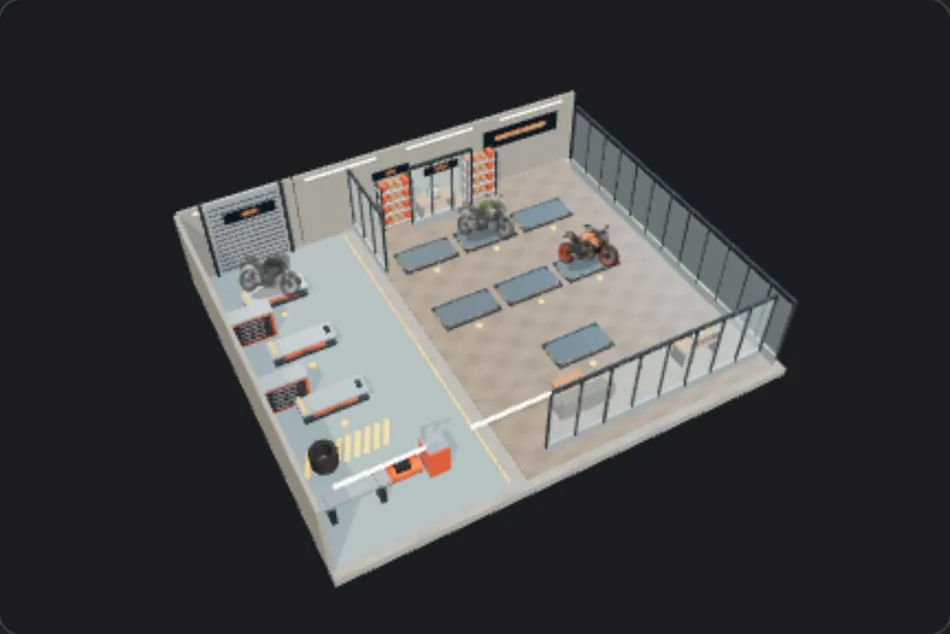
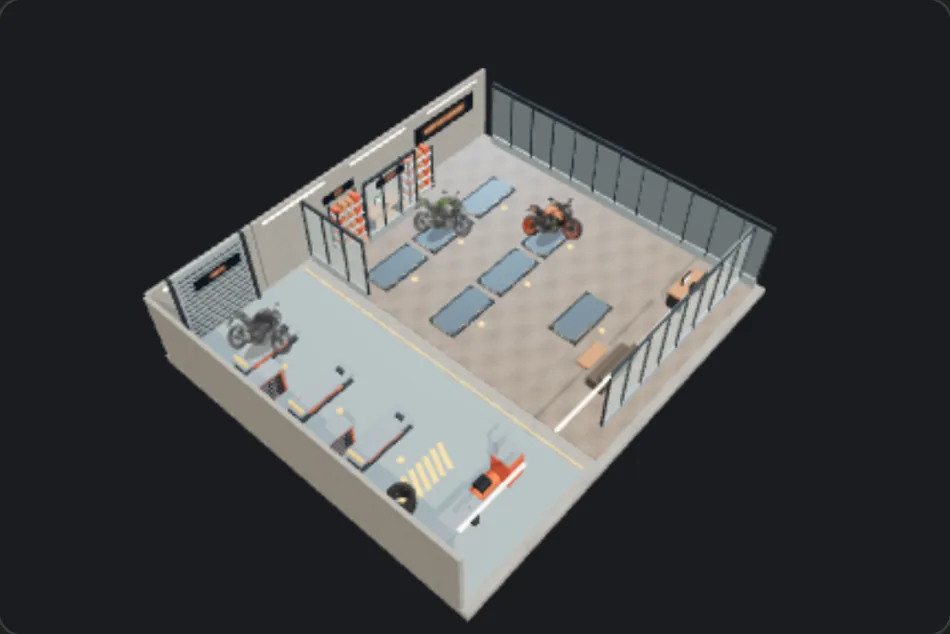
Document v0.17 requirements audit, asset rights and validation

Changed region(s): [[0.1526, 0.0899, 0.8547, 0.989]]

diff --git a/docs/v017-audit.md b/docs/v017-audit.md
@@ -1,0 +1,49 @@
+# v0.17 gereksinim denetimi · PR #33
+
+Bu tablo ilk v0.17 isteğini, v0.16.1 tabanını ve PR #33 kaynaklarını karşılaştırır. **Tamam** uygulanan ve ilgili kanıtı olan, **Kısmi** altyapısı veya görsel prototipi olan, **Açık** teslim edilmemiş işi gösterir.
+
+| İlk istek | Durum | Kanıt ve kalan iş |
+| --- | --- | --- |
+| 1 · Beş proje belgesini ve v0.16.1 kaynaklarını incele | Tamam | Taban PR #32, ilk grafik commit'i `21a4646`. 3D renderer dışındaki oyun kuralları değişmedi. |
+| 1 · Önceki 151 testi, mevcut 160 testi ve mekanikleri koru | Tamam | Önceki testler korunur. Aşağıdaki test tablosu yeni çalıştırmaları listeler. |
+| 2 · Modüler Three.js ve WebGL render | Tamam | `graphics/controller.mjs`, `renderer.mjs`, `assets.mjs`, `garage.mjs`, `config.mjs`, bağımsız eşleştirme ve yerel r180. Ekonomi grafik modüllerini içe aktarmaz. |
+| 2 · GLB/glTF | Tamam | Self-contained GLB platformu ve ayrı KHR_texture_basisu fixture'ı tarayıcıda yüklenir. glTF Loader standardı destekler. Harici URI içeren bir proje varlığı ayrıca denenmedi. |
+| 2 · PBR, metal, cam, yansımalar, HDR ışık, gölgeler, kenar yumuşatma | Kısmi | Metal/roughness PBR, yarı saydam cam, yerel yüksek dinamik aralıklı RoomEnvironment/PMREM, PCF gölgeler ve isteğe bağlı context MSAA çalışır. Cam refraction, düzlemsel yansıma ve çekilmiş HDRI yok. |
+| 2 · LOD, KTX2, model/doku önbelleği ve temizleme | Kısmi | UASTC + altı mip seviyesi iki tarayıcıda render edildi. Son referansta doku ve geometri sayaçları sıfırlanıyor. LOD0 ve mesafede özgün 2D kart yolu hazır. Onaylı motosiklet mesh'iyle geçiş, orta mesh LOD ve gerçek cihaz GPU baytları açık. |
+| 2 · WebGL context kaybı | Tamam | WebGL 2 kapalı başlatma, `WEBGL_lose_context` ile 2D'ye geçiş ve yeni canvas ile toparlanma senaryoları var. |
+| 3 · MT-25 2024 siyah, Z900 2025 yeşil/siyah, KTM 1390 2024 turuncu/siyah | Açık | Üç kesin varyant için birlikte doğrulanmış görsel doğruluk ve lisans yok. Bağımsız kayıt boş. Özgün 2D geri dönüşü garajda ve ayrıntıda etiketli. |
+| 3 · Motor bloğu, şasi, radyatör, egzoz, iki süspansiyon, disk/kaliper, jant/lastik, zincir/dişli, depo, far/stop, gidon/ayna, sele, gerçek oran ve PBR malzemeler | Açık | Üç motosikletin 3D dosyası bulunmadığından hiçbir parça 3D teslim olarak sayılmıyor. |
+| 3 · Ücretsiz/ücretli kaynak, fiyat, ticari kullanım, değişiklik ve yeniden dağıtım doğrulaması | Kısmi | Araştırma ve adayların açık kaynak sınırları kaydedildi. Marka hakları ile birlikte güvenli alım/dağıtım sağlayan aday veya özel yazılı izin bulunmadı. [Adaylar](../ASSET_LICENSES.md) |
+| 4 · 10 bölmeli garaj, cam cephe, zemin, platform, LED, masa, bekleme, duvar ve bilgi panoları | Kısmi | 10 bölmeli 3D kabuk, cam, yerel yüzey, platformlar, ışıklı şeritler, masa, basit koltuk ve bölge levhaları mevcut. Motosiklet başına okunabilir bilgi kartı, profesyonel mobilya modeli, gerçek cam optiği ve özel yüzey malzemeleri açık. |
+| 4 · Hidrolik lift, dolap, kompresör, lastik makinesi, yedek parça, tezgâh, yağ ve endüstriyel ışık | Kısmi | Makaslı lift, dolap, kompresör, lastik makinesi silueti, tezgâh, raf ve ışık prosedürel geometri olarak var. Ayrı yağ/bakım ekipmanı ve ayrıntılı üretim varlıkları açık. |
+| 4 · Müdür, depo, resepsiyon, giriş/çıkış ve teslim | Kısmi | Müdür masası, cam bölme, depo rafı, resepsiyon, kepenk ve teslim işaretleri var. Kapalı ve ayrıntılı odalar, ayrı giriş/çıkış ve geri yönlerde iç mekânı koruyan kesit kamera tasarımı açık. |
+| 4 · Fiziksel ölçek | Kısmi | Zeminin dış izleri 16 × 13,6 m, duvar yüksekliği 3,1 m, lift üstü 2,26 × 0,76 m ve çoğu showroom aks aralığı 2,5 m. 350 m² 2D şube etiketi, 217,6 m² temsilî 3D ayak iziyle birebir eşleşmiyor. 2,35 m sprite genişliği ekran düzleminde, gerçek motosiklet boyunu doğrulamaz. Tam model ölçeği ve dolaşım kontrolü açık. |
+| 5 · 360°, dokunmatik hareket, iki parmak, varsayılan açı, sınırlar, odak, yumuşak geçiş, sıfırlama ve seçim | Kısmi | OrbitControls fare ve iki parmak kontrolü, polar/mesafe/pan sınırı, yumuşak kamera ve konum sıfırlama uygular. Emüle edilen dokunma, sürükleme ve Chromium iki parmak testleri mevcut. Fiziksel Safari hareket testi ve açılarda occlusion değerlendirmesi açık. |
+| 6 · Ayrı 3D inceleme, döndürme ve yakınlaştırma | Kısmi | Ayrı canvas ve OrbitControls yolu mevcut. Üç motosikletin ayrıntısı 2D geri dönüşünde test edildi. Gerçek 3D inceleme ve farklı açılarda motosiklet görüntüsü onaylı model bekliyor. |
+| 6 · Model/yıl, km, üç kondisyon ve alış/satış | Tamam | Mevcut ayrıntı; model, yıl, km, mekanik/görsel/yapısal yüzdeler, alış ve varsa isteme fiyatı. Satış ilanı yoksa piyasa değeri etiketlenir. 3D görsel hasar uygulanmaz. |
+| 7 · Düşük, Orta, Yüksek, Ultra ve ek ayarlar | Kısmi | Dört profil çözünürlük, yüzey dokusu, shadow map, yansıma şiddeti ve LOD eşiğini farklı uygular. Otomatik, 30/60 sınırı, çözünürlük, gölge, yansıma, MSAA, gösterge ve ayrı kayıt mevcut. Ultra ayrı doku seti, daha gelişmiş ışık modeli ve lisanslı yüksek mesh LOD bekliyor. |
+| 7 · Otomatik performans düşüşü | Kısmi | Hareket sırasında yavaş kareler sayılır ve otomatik profil düşük kaliteye geçebilir. Gerçek cihazda eşikler ve kesintisiz ağır sahne davranışı henüz ölçülmedi. |
+| 8 · iPhone ve FPS hedefleri | Kısmi | Mobil WebKit ve SwiftShader emülasyonu var. Fiziksel Safari/GPU 30/60 FPS hedefleri ve ısıl/pil ölçümü açık. |
+| 8 · Frustum, instancing, uzak LOD, ihtiyaçta yükleme, arka plan durdurma ve 2D düşüş | Kısmi | Three.js frustum, tekrar eden ekipman, cephe ve platform instancing, talep üzerine yükleme, görünürlük/viewport duraklatma ve bağlam geri dönüşü mevcut. Onaylı mesh'lerle yük ve arka plan pil testi açık. |
+| 9 · Stok alım/satım, servis, nakliye, kapasite | Tamam | Mevcut salt okunur park planı doğrudan kullanılır. Tarayıcı testi otomatik satışı ve nakliyedeki motorun sahne dışında kalmasını doğrular. 2D testleri eski kapasite, yükseltme ve sahneleri korur. |
+| 9 · Kayıt, otomasyon, personel, ekonomi, finans, bildirim ve Yusuf | Tamam | Bağımsız grafik anahtarı ve eski kayıt testleri, oyun modülleri v0.16.1 ile aynı. |
+| 10 · 2D varsayılan ve isteğe bağlı prototip, tek şube tipi, kayıtla iki mod | Tamam | 2D varsayılan, 3D yalnızca 10 bölme, ayarlar ve kayıt ayrı. 3D olmayan model için gerçek 2D varlık. |
+| 11 · Beş proje belgesi, grafik mimarisi ve lisans envanteri | Tamam | PR #33'te güncellendi. Bu dosya açık işleri, [mimari](../GRAPHICS_ARCHITECTURE.md) teknik kararları içerir. |
+| 12 · Başlatma, model, kalite, kamera, seçim, geçiş, kapasite, satış, eski kayıt, context ve mobil tarayıcı testleri | Kısmi | Bunların prototip kapsamı test edildi. Lisanslı motosiklet yükleme, gerçek 3D yakın plan ve fiziksel Safari açık. |
+| 12 · Farklı sahne açısı, üç 3D yakın plan, FPS, poligon, doku, gecikme ve bellek | Kısmi | İki gerçek sahne açısı ve üç açıkça 2D ayrıntı mevcut. Çizim ve kaynak sayacı, doku boyutları ve yerel yükleme gecikmesi ölçüldü. Fiziksel FPS, GPU baytları ve üç motosikletin mesh ölçümleri açık. |
+| 12 · v0.17, ayrı dal, aynı PR ve onaysız genişletmeme | Tamam | `feature/motor-empire-v0-17`, [taslak PR #33](https://github.com/gurkanallenxd1-rgb/motor-empire/pull/33). |
+| Ek güvenlik · 98 dosya, ID/kasa/renk, ayrı varlıklar, kullanıcıya doğru 2D ve diğer ekranlar | Tamam | SHA-256 manifesti eksik/fazla dosyaları ve içerikleri kontrol eder. İlan, piyasa, bildirim ve satış görselleri değiştirilmedi. |
+
+
+## Test ve ekran görüntüleri
+
+| Test | Sonuç |
+| --- | --- |
+| Node.js | 127 başarılı. v0.16.1 ve PR #33 testleri korunuyor. |
+| Playwright mobil WebKit | 35 başarılı. |
+| Chromium SwiftShader grafik alt kümesi | 6 başarılı. |
+| UASTC, iki yükleyici referansı ve kaynak temizliği | Her iki tarayıcıda 32×32, altı mip, iki farklı framebuffer rengi, doku 1→0, geometri 1→0, doku tek dispose, kapanan bekleyen yükte AbortError. |
+| Dört kalite profili | Her iki tarayıcıda çözünürlükler farklı. Zemin 128/256/512/1.024, gölge 0/512/1.024/2.048, yansıma şiddeti 0,22/0,50/0,78/1. |
+
+- Gerçek zamanlı 3D garaj · [Varsayılan yön](v017-garage-angle-1.webp) · [Döndürülmüş yön](v017-garage-angle-2.webp)
+- Özgün 2D ayrıntılar · [Yamaha MT-25 2024](v017-graphics-yamaha-mt25.webp) · [Kawasaki Z900 2025](v017-graphics-kawasaki-z900.webp) · [KTM 1390 Super Duke R 2024](v017-graphics-ktm-super-duke1390.webp)

diff --git a/ASSET_LICENSES.md b/ASSET_LICENSES.md
@@ -9,10 +9,22 @@
 
 Önceki 2D katalog varlıkları özgün dosyalarından okunur. Önceki varlık envanteri grafik bütünlüğü testinde kayıtlıdır.
 
-## Motosiklet adayları
+## Motosiklet adayları · 27 Kasım 2026
 
-- Yamaha MT-25 2024 siyah. Yazıcı modellerini indeksleyen kaynakta farklı kuşak veya MT-03 ile ortak etiketlenmiş adaylar bulunuyor. 2024 kasası, gerekli görsel ayrıntı ve yeniden dağıtım izni birlikte doğrulanamadı. [Model indeksi](https://www.stlfinder.com/3dmodels/yamaha-mt25/)
-- Kawasaki Z900 2025 yeşil/siyah. Marketplace adayında kaynak modelin açık depoda dağıtım izni doğrulanamadı. Pinshape adayı ticari kullanımı sınırlıyor. CC0 etiketli AI adayında 2025 kasa ayrıntıları doğrulanamadı. [CubeBrush](https://cubebrush.co/rpalomino/products/lzwjda/base-model-kawasaki-z900-2025) · [Pinshape](https://pinshape.com/items/125557-3d-printed-kawasaki-z900) · [Meshy](https://www.meshy.ai/posts/moto-kawazaki-z900-con-textura-01a20450-ab7b-75cb-83f1-d2e2a0126afa)
-- KTM 1390 Super Duke R 2024 turuncu/siyah. Ticari lisans seçenekleri olan adaylarda ham modelin açık depoda yeniden dağıtım yetkisi doğrulanamadı. [3DExport](https://3dexport.com/3d-model-base-model-ktm-1390-super-duke-2024-562075) · [TurboSquid](https://www.turbosquid.com/3d-models/3d-base-model-ktm-1390-super-duke-2024-model-2438660)
+Fiyatlar görülen ilan fiyatlarıdır. Vergi, indirim, paket ve para birimi değişebilir. Bu araştırmada satın alma yapılmadı. Yayımlanan GLB tarayıcıdan ayrı bir dosya olarak alınabildiğinden, hem açık Git deposu hem web dağıtımı için modelin yeniden dağıtım hakkı gerekir.
 
-Üç hedef için depoda etkin 3D model yok. Kayıtları boş bırakıldı. Varlık kabulünden önce model yılı, renk, oranlar, parça ayrıntıları, üretici referansı, telif sahibi, ticari kullanım ve web üzerinden yeniden dağıtım hakları kaydedilmeli.
+| Hedef ve aday | Görülen fiyat | Ticari kullanım, düzenleme ve dağıtım | Teknik sonuç |
+| --- | --- | --- | --- |
+| Yamaha MT-25 · Printiby 2021 MT03/MT25 STL | 13,19–13,22 ABD doları | Öğe için açık depo ve web dağıtım izni doğrulanmadı. Ticari oyun ve dijital türev yetkisi belirsiz. | İlan 2021 olarak listeleniyor. 2024 siyah, PBR ve ayrı parçalar doğrulanmadı. [Cults](https://cults3d.com/en/tags/mt25) |
+| Yamaha MT-25 · ücretsiz indeks adayları | Ücretsiz olarak indekslenen parçalar var | Listelenen parçaların lisansı varlık bazında değişiyor. Tam 2024 mesh için izin doğrulanmadı. | İndeks parça, STL ve farklı nesil kayıtları içeriyor. Yamaha'nın 2025 sürümü ayrı güncelleme olduğundan güncel üretici fotoğrafları 2024 kasanın kanıtı sayılmadı. [STLFinder](https://www.stlfinder.com/3dmodels/yamaha-mt25/) · [Yamaha](https://www.yamaha-motor.co.id/archives/news/product/2025/01/hadir-dengan-berbagai-upgrade-new-yamaha-mt-25-semakin-tonjolkan-aura-the-master-of-torque-yang-agresif/) |
+| Kawasaki Z900 2025 · Rey Studio taban mesh | 3DExport listesinde 27 ABD doları | Basic/Extended ticari son ürün kullanımı koşulludur. Uygun kapsama alınmış kullanım ham dosyanın açık dağıtım iznini vermez. Satıcı veya marka sahibinden ayrı izin doğrulanmadı. | Yıl eşleşiyor. İlanı alınmadan kaporta boyası, PBR ve motor parçası ayrıntısı doğrulanamıyor. [3DExport](https://3dexport.com/3d-model-base-model-kawasaki-z900-2025-561335) · [Kawasaki ölçüleri](https://www.kawasaki.co.uk/en/Motorcycles/Supernaked/Z900_2025.html) |
+| Kawasaki Z900 · Pinshape ve Meshy | Ücretsiz adaylar | Pinshape CC BY-NC-SA ticari kullanımı kapsamıyor. Meshy adayının CC0 beyanı aktaran kişinin hak sahibi olduğunu veya marka haklarını kanıtlamıyor. | 2025 kasa, yeşil/siyah boya ve PBR doğrulanmadı. [Pinshape](https://pinshape.com/items/125557-3d-printed-kawasaki-z900) · [Meshy](https://www.meshy.ai/posts/moto-kawazaki-z900-con-textura-01a20450-ab7b-75cb-83f1-d2e2a0126afa) |
+| KTM 1390 Super Duke 2024 · Rey Studio taban mesh | 3DExport listesinde 27 ABD doları. CGTrader kategori verisinde 49 ABD doları liste fiyatı. | 3DExport koşullu kullanım ve yeniden dağıtım sınırı yukarıdaki gibi. CGTrader Royalty Free, varlığın üçüncü tarafça ayrı alınamamasını şart koşar. Ticari son ürün ve düzenleme kapsamı açık dosya dağıtımına izin vermez. | Taban model. Turuncu/siyah R varyantı ve PBR bitişi doğrulanmadı. [3DExport](https://3dexport.com/3d-model-base-model-ktm-1390-super-duke-2024-562075) · [CGTrader](https://www.cgtrader.com/3d-models/vehicle/motorcycle/base-model-ktm-1390-super-duke-2024) · [KTM ölçüleri](https://www.ktm.com/en-ie/models/naked-bike/2024-ktm-1390-superduker/technical-specifications.html?variation=F9903X2) |
+| KTM 1390 Super Duke R 2024 · ücretsiz tam mesh | Doğrulanmış ilan bulunamadı | Hak, ücret veya ticari kullanım konusunda çıkarım yapılmadı. | Açık aday bulunana kadar özgün 2D varlık. |
+| Üç varyant · siparişle özgün model veya üreticiden lisanslı erişim | Teklif gerekli | Yazılı sözleşmede ticari kullanım, düzenleme, GitHub ve tarayıcıda ham GLB/doku dağıtımı ve varsa logo/marka/kasa hakları ayrı doğrulanmalı. | Teslim kapsamı teknik olarak [mimari belgede](GRAPHICS_ARCHITECTURE.md). Henüz sipariş veya iletişim yok. |
+
+Alternatif satıcı listeleri [Z900 TurboSquid](https://www.turbosquid.com/3d-models/base-model-kawasaki-z900-2025-model-2438653), [KTM TurboSquid](https://www.turbosquid.com/3d-models/3d-base-model-ktm-1390-super-duke-2024-model-2438660) ve [Z900 Cubebrush](https://cubebrush.co/rpalomino/products/lzwjda/base-model-kawasaki-z900-2025) üzerinden incelendi. Fiyat yeniden doğrulanamadı. Kamuya açık, indirilebilir GLB için bu standart lisanslar yeterli kabul edilmedi. [3DExport şartları](https://3dexport.com/basic-license-and-extended-license) · [CGTrader Royalty Free](https://help.cgtrader.com/hc/en-us/articles/360015124437-Royalty-Free-License) · [TurboSquid lisansı](https://blog.turbosquid.com/turbosquid-3d-model-license/) · [Cubebrush lisansı](https://support.cubebrush.co/hc/en-us/articles/115000401708-Licenses-FAQ)
+
+## Test varlığı
+
+`tests/fixtures/checker-basis.glb` bu depoda üretilen özgün iki renkli desen ve basit düzlem içerir. Üçüncü taraf model, görsel veya marka içermez. 32 × 32 UASTC doku ve altı mip seviyesi Basis Universal encoder 1.16.3 ile `tools/build-ktx2-fixture.py` kullanılarak üretildi. [Basis Universal kaynak ve lisansı](https://github.com/BinomialLLC/basis_universal)

diff --git a/GRAPHICS_ARCHITECTURE.md b/GRAPHICS_ARCHITECTURE.md
@@ -24,8 +24,16 @@
 
 Oyun anahtarı `motor-empire.v9`. Grafik seçimi bağımsız `motor-empire.graphics.v1` anahtarındadır. WebGL 2 yoksa veya motor başlatılamazsa izometrik 2D garaj görünür. Bağlam kesintisinde aynı 2D ekran gösterilir, geri yüklemede temiz bir canvas ile motor yeniden başlatılır. Onaylı GLB eşleşmesi yoksa veya yüklenemezse mevcut motosiklet WebP görseli sahnede veya ayrıntıda kullanılır. Nakliye ve kiralamadaki stok fiziksel sahneye eklenmez. Katalog bütünlüğü v0.16.1 dosya karmalarıyla denetlenir.
 
-Bu prototipte doğrulanmış motosiklet mesh'i, fiziksel görsel hasar, harici HDRI ve gerçek cihaz performans ölçümü eksik. GLB yükleyici özgün sergi platformuyla test edilir. KTX2 çözücü mevcut, motosiklet dokusu olarak doğrulanmış KTX2 örneği yok. Tüm katalog ve garajlara genişleme öncesi kullanıcı onayı gereklidir.
+Bu prototipte doğrulanmış motosiklet mesh'i, fiziksel görsel hasar, harici HDRI ve gerçek cihaz performans ölçümü eksik. GLB yükleyici özgün sergi platformuyla test edilir. UASTC KTX2 yolu özgün test GLB’si ile doğrulandı. Üretim motosikleti dokusu henüz yok. Tüm katalog ve garajlara genişleme öncesi kullanıcı onayı gereklidir.
 
-## v0.17 ölçüm kaydı
+## Performans doğrulaması
 
-390×844 mobil ekran emülasyonunda, Chromium SwiftShader yazılımsal WebGL ile Orta profil ve 30 FPS sınırında, kamera hareketi sırasında örnek alınan çizimde 7.558 üçgen, 12 GPU doku nesnesi ve 14 geometri nesnesi raporlandı. Ayrı koşularda anlık kare hızı örnekleri 5–12 FPS aralığındaydı. Bu ölçüm fiziksel iPhone performansını temsil etmez. GLB platformu 6.940 bayt. GPU bellek baytları ve ilk kullanımdaki yükleme gecikmesi ölçülmedi. Mevcut üç 2D motosikletin 3D poligon sayısı yoktur.
+`tests/graphics-profile.cjs`, ayrı bir Chromium profili açar ve 390×844 iPhone emülasyonunda yazılımsal Vulkan SwiftShader kullanır. İlk açılış metrikleri 3D seçeneğini değiştirmekten platform GLB'sinin bağlanmasına kadar ölçülür. Ardından boş 10 bölmeli sahne 390×260 CSS pikselde, 487×325 fiziki pikselde ve Orta profilde örneklenir. Çizim çağrıları web bağlamından, CPU tarafı duvar süresi ilk clear ile aynı karedeki ölçüm callback'i arasından alınır. Bu süre JavaScript ile yazılım sürücüsünün senkronize işini kesin olarak ayırmaz. Timer sorguları desteklenirse aygıt tarafı örnekleri de alınır. SwiftShader sonuçları CPU üzerinde çalışan bir WebGL sürücüsüne aittir.
+
+```sh
+python3 -m http.server 8397
+# İkinci terminal
+node tests/graphics-profile.cjs
+```
+
+Gerekirse `PLAYWRIGHT_MODULE`, `CHROMIUM_PATH` ve `GRAPHICS_URL` ayarla. Karşılaştırılacak iki commit için aynı tarayıcı ve host kullan. Platform GLB 6.940 bayt. UASTC test GLB'si 1.492 bayt. Gömülü doku 529 bayt ve 32×32 boyutta. Bu doku üretim sahnesinin parçası değildir. Three.js bellek sayaçları kaynak adedini verir. GPU VRAM baytlarını veya süreç RSS sızıntısını ispatlamaz.

diff --git a/PROJECT_STATE.md b/PROJECT_STATE.md
@@ -29,5 +29,11 @@ Yusuf Belge kurgusal bir satıcıdır. İstanbul'da 120 oyun günlük her blokta
 - Statik, hesapsız kullanım ve GitHub Pages yayını korunur. Kayıtlar tarayıcıya özeldir. Hesaplar ve bulut kayıt v0.20 için planlanıyor.
 - Model çizimleri yerel WebP ve boya maskeleri kullanır. Bütün model ve kasa varyantları üretici düzeyinde doğrulanmış değildir. Görsel denetim sayfası temsilî varlıkları işaretler. Fiziksel iPhone kare hızı ölçümü bu sürümde yapılmadı.
 - Fiyat grafiği Türkiye genelinde tüm model yıllarını kapsar. Şehir karşılaştırması seçilen yılın temiz motosiklet referansıdır ve işlem garantisi içermez.
-- Mevcut doğrulama **127 Node.js + 33 mobil Playwright WebKit testi**. v0.16.1’in 151 testi korunur. Chromium yazılımsal WebGL de dört yeni grafik senaryosu için kullanılır. Fiziksel iPhone testi yapılmadı.
-- Sıradaki görev üç prototip model için uygun varlık ve lisans doğrulaması, KTX2 örneği ve fiziksel iPhone performans ölçümü. Daha geniş 3D dönüşüm kullanıcı onayı gerektirir. Sonraki sürümler [ROADMAP.md](ROADMAP.md) dosyasında.
+- Mevcut doğrulama **127 Node.js + 35 mobil Playwright WebKit = 162 başarılı test**. PR #33 başındaki 160 test korunur. Chromium yazılımsal WebGL’de 6 grafik testi geçti. Fiziksel iPhone testi yapılmadı.
+- Sıradaki görev üç prototip modelin ticari kullanım, düzenleme ve açık dağıtım izni, gerçek 3D inceleme, garaj varlık ayrıntıları ve fiziksel iPhone performans ölçümü. KTX2, iki tarayıcıda özgün bir test varlığıyla doğrulandı. Daha geniş 3D dönüşüm kullanıcı onayı gerektirir. Sonraki sürümler [ROADMAP.md](ROADMAP.md) dosyasında.
+
+## PR #33 devam noktası
+
+- Zorunlu gereksinimlerin durumu [v0.17 denetiminde](docs/v017-audit.md). 0/3 lisanslı motosiklet modeli var. Bir sonraki varlık çalışması üç hedef modelle sınırlı.
+- İki farklı 3D garaj açısı ve üç 2D ayrıntı yenilendi. [Görseller](README.md#v017-prototip-ekran-görüntüleri)
+- Çizim çağrıları instancing ile azaltıldı. FPS ve kaynak ölçümünün yöntemi, sınırları ve tekrar komutu [grafik mimarisinde](GRAPHICS_ARCHITECTURE.md#performans-doğrulaması).

diff --git a/AGENTS.md b/AGENTS.md
@@ -39,8 +39,11 @@ Bir görev açıkça bu kuralları hedeflemiyorsa şube kapasitesini ve maliyeti
 - 3D dosyaları `assets/3d/` altında ve eşleştirmeleri `graphics/registry.mjs` içinde bağımsız tutulur. Eksik veya hatalı 3D modelin yerine aynı motosikletin özgün 2D görseli kullanılır.
 - 2D varsayılan açıktır. Kaynak veya WebGL hatasında 2D garaj çalışmaya devam eder. Grafik ayarları oyun kaydından ayrıdır.
 - Katalog ve görsel dosyalarını temel envanterle otomatik karşılaştır. Varlık lisanslarını [ASSET_LICENSES.md](ASSET_LICENSES.md) dosyasına belgele. Mimari için [GRAPHICS_ARCHITECTURE.md](GRAPHICS_ARCHITECTURE.md) dosyasını oku.
+- [v0.17 gereksinim denetimi](docs/v017-audit.md) doğrulanan özellikleri ve açık işleri listeler. Performans karşılaştırmalarında tarayıcı, donanım, profil ve ölçüm yöntemini kaydet. Fiziksel iPhone sonucu diye emülasyon ölçümü kullanma.
 - İlk prototip 10 bölme ve üç hedef motosikletle sınırlı. Katalog veya garaj seviyelerini genişletmeden önce kullanıcı onayı al. PR'ı otomatik birleştirme.
 
 ## Git ve teslim
 
 Güncel `main` üzerinden ayrı bir `feature/` veya `fix/` dalı aç. Odaklı commit oluştur, testi ve sınırlarını PR'da raporla ve ilgili proje belgelerini aynı PR'a ekle. `main` dalına doğrudan yazmak yerine PR kullan. Şifre, erişim belirteci, API anahtarı, kişisel hesap bilgisi veya tarayıcı kaydı commit etme. Proje içi kaynak ve geçmiş için GitHub deposunu kullan.
+
+Açık PR üzerinde devam edilmesi istenirse aynı dalı kullan. Çalışmayı geri dönülebilir commit’lere ayır ve doğrulanmamış bulguları proje durumunda açık iş olarak kaydet.

diff --git a/CHANGELOG.md b/CHANGELOG.md
@@ -3,10 +3,12 @@
 ## v0.17 · Deneysel
 
 - Varsayılan 2D garaja ek olarak 10 bölmeli, isteğe bağlı Three.js garajı, kamera ve grafik ayarları eklendi. Grafik seçimi ayrı kaydedilir.
-- GLB yükleyici sergileme platformuyla çalışır. Grafik altyapısında PBR, yerel ortam yansımaları, KTX2 bağlantısı ve WebGL hatasında 2D geri dönüşü bulunur.
+- GLB yükleyici sergileme platformuyla çalışır. Grafik altyapısında PBR, yerel ortam yansımaları, KTX2 desteği ve WebGL hatasında 2D geri dönüşü bulunur.
 - Üç hedef motosiklet için uygun yeniden dağıtım hakkı ile görsel doğruluk birlikte doğrulanamadı. Stok ve ayrıntılar özgün 2D varlıkları kullanır. [Varlık araştırması](ASSET_LICENSES.md)
 
-- Önceki 151 senaryo korunuyor. 5 Node ve 4 tarayıcı grafik senaryosu eklendi. Fiziksel iPhone ölçümü yapılmadı.
+- PR #33 devamında KTX2 UASTC GLB iki tarayıcıda render edildi. Referans sayımı, GPU kaynak bırakımı ve bekleyen yük iptali test edildi. Dört profil, iki parmakla yakınlaştırma ve 2D geri dönüşü kontrol edildi.
+- Platform ve cephe dikmeleri görsel geometri korunarak instancing ile gruplandı. Yazılımsal WebGL ölçümü ve lisans adayları belgelendi.
+- **127 Node.js ve 35 mobil Playwright WebKit testi geçti.** Önceki 160 test dahil. Altı grafik senaryosu SwiftShader Chromium’da da geçti. Fiziksel iPhone ölçümü yapılmadı. [Gereksinim denetimi](docs/v017-audit.md)
 
 ## v0.16.1 · [PR #32](https://github.com/gurkanallenxd1-rgb/motor-empire/pull/32)
 

diff --git a/README.md b/README.md
@@ -18,7 +18,7 @@ Tarayıcıda [localhost:8000](http://localhost:8000/) adresini aç. Aynı kaydı
 
 Garaj ekranında **Garaj grafik ayarları → Deneysel 3D Garaj** yolunu kullan. Prototip 10 bölmeli şubelerde çalışır. Diğer şubeler ve WebGL 2 desteklemeyen cihazlar 2D garajı kullanır. Grafik ayarları oyun kaydından bağımsızdır. Mevcut motosiklet görselleri üç hedef varyant dahil stokta gösterilir. Lisanslı 3D motosiklet modelleri henüz pakette bulunmuyor.
 
-Yerel Three.js ve Basis dosyaları statik olarak sunulur. Mimari ve varlık belgeleri [GRAPHICS_ARCHITECTURE.md](GRAPHICS_ARCHITECTURE.md) ve [ASSET_LICENSES.md](ASSET_LICENSES.md) dosyalarındadır.
+Yerel Three.js ve Basis dosyaları statik olarak sunulur. Testte kullanılan özgün UASTC doku ve aday varlık lisansları belgelenmiştir. [Grafik mimarisi](GRAPHICS_ARCHITECTURE.md) · [Lisanslar](ASSET_LICENSES.md) · [Gereksinim denetimi](docs/v017-audit.md)
 
 ## Oynama
 

diff --git a/ROADMAP.md b/ROADMAP.md
@@ -28,4 +28,4 @@ Sürüm ve kaynak PR ayrıntıları [CHANGELOG.md](CHANGELOG.md) dosyasında bul
 | v0.23 | Android ve iOS uygulaması |
 | v1.0 | Resmî yayın |
 
-Sıradaki görev v0.17 grafik temelidir. Mevcut model atlası ve kasa doğrulama eksiklerini [görsel denetim sayfasıyla](visual-audit.html?dev=1) belirleyip önce az sayıda model üzerinde yeni render yaklaşımı, varlık lisansları ve mobil bütçeyi doğrula. Ardından kataloğa yay. Bu sürümde ekonomi veya kayıt şemasında değişiklik planlanmıyor.
+PR #33 denetiminde KTX2 ve dört grafik profili doğrulandı. Sırada üç lisanslı model, gerçek 3D inceleme, profesyonel garaj varlıkları ve gerçek iPhone ölçümü var. Kataloğu veya ek garaj seviyelerini dönüştürmeden önce kullanıcı onayı gerekir. [Gereksinim denetimi](docs/v017-audit.md)
